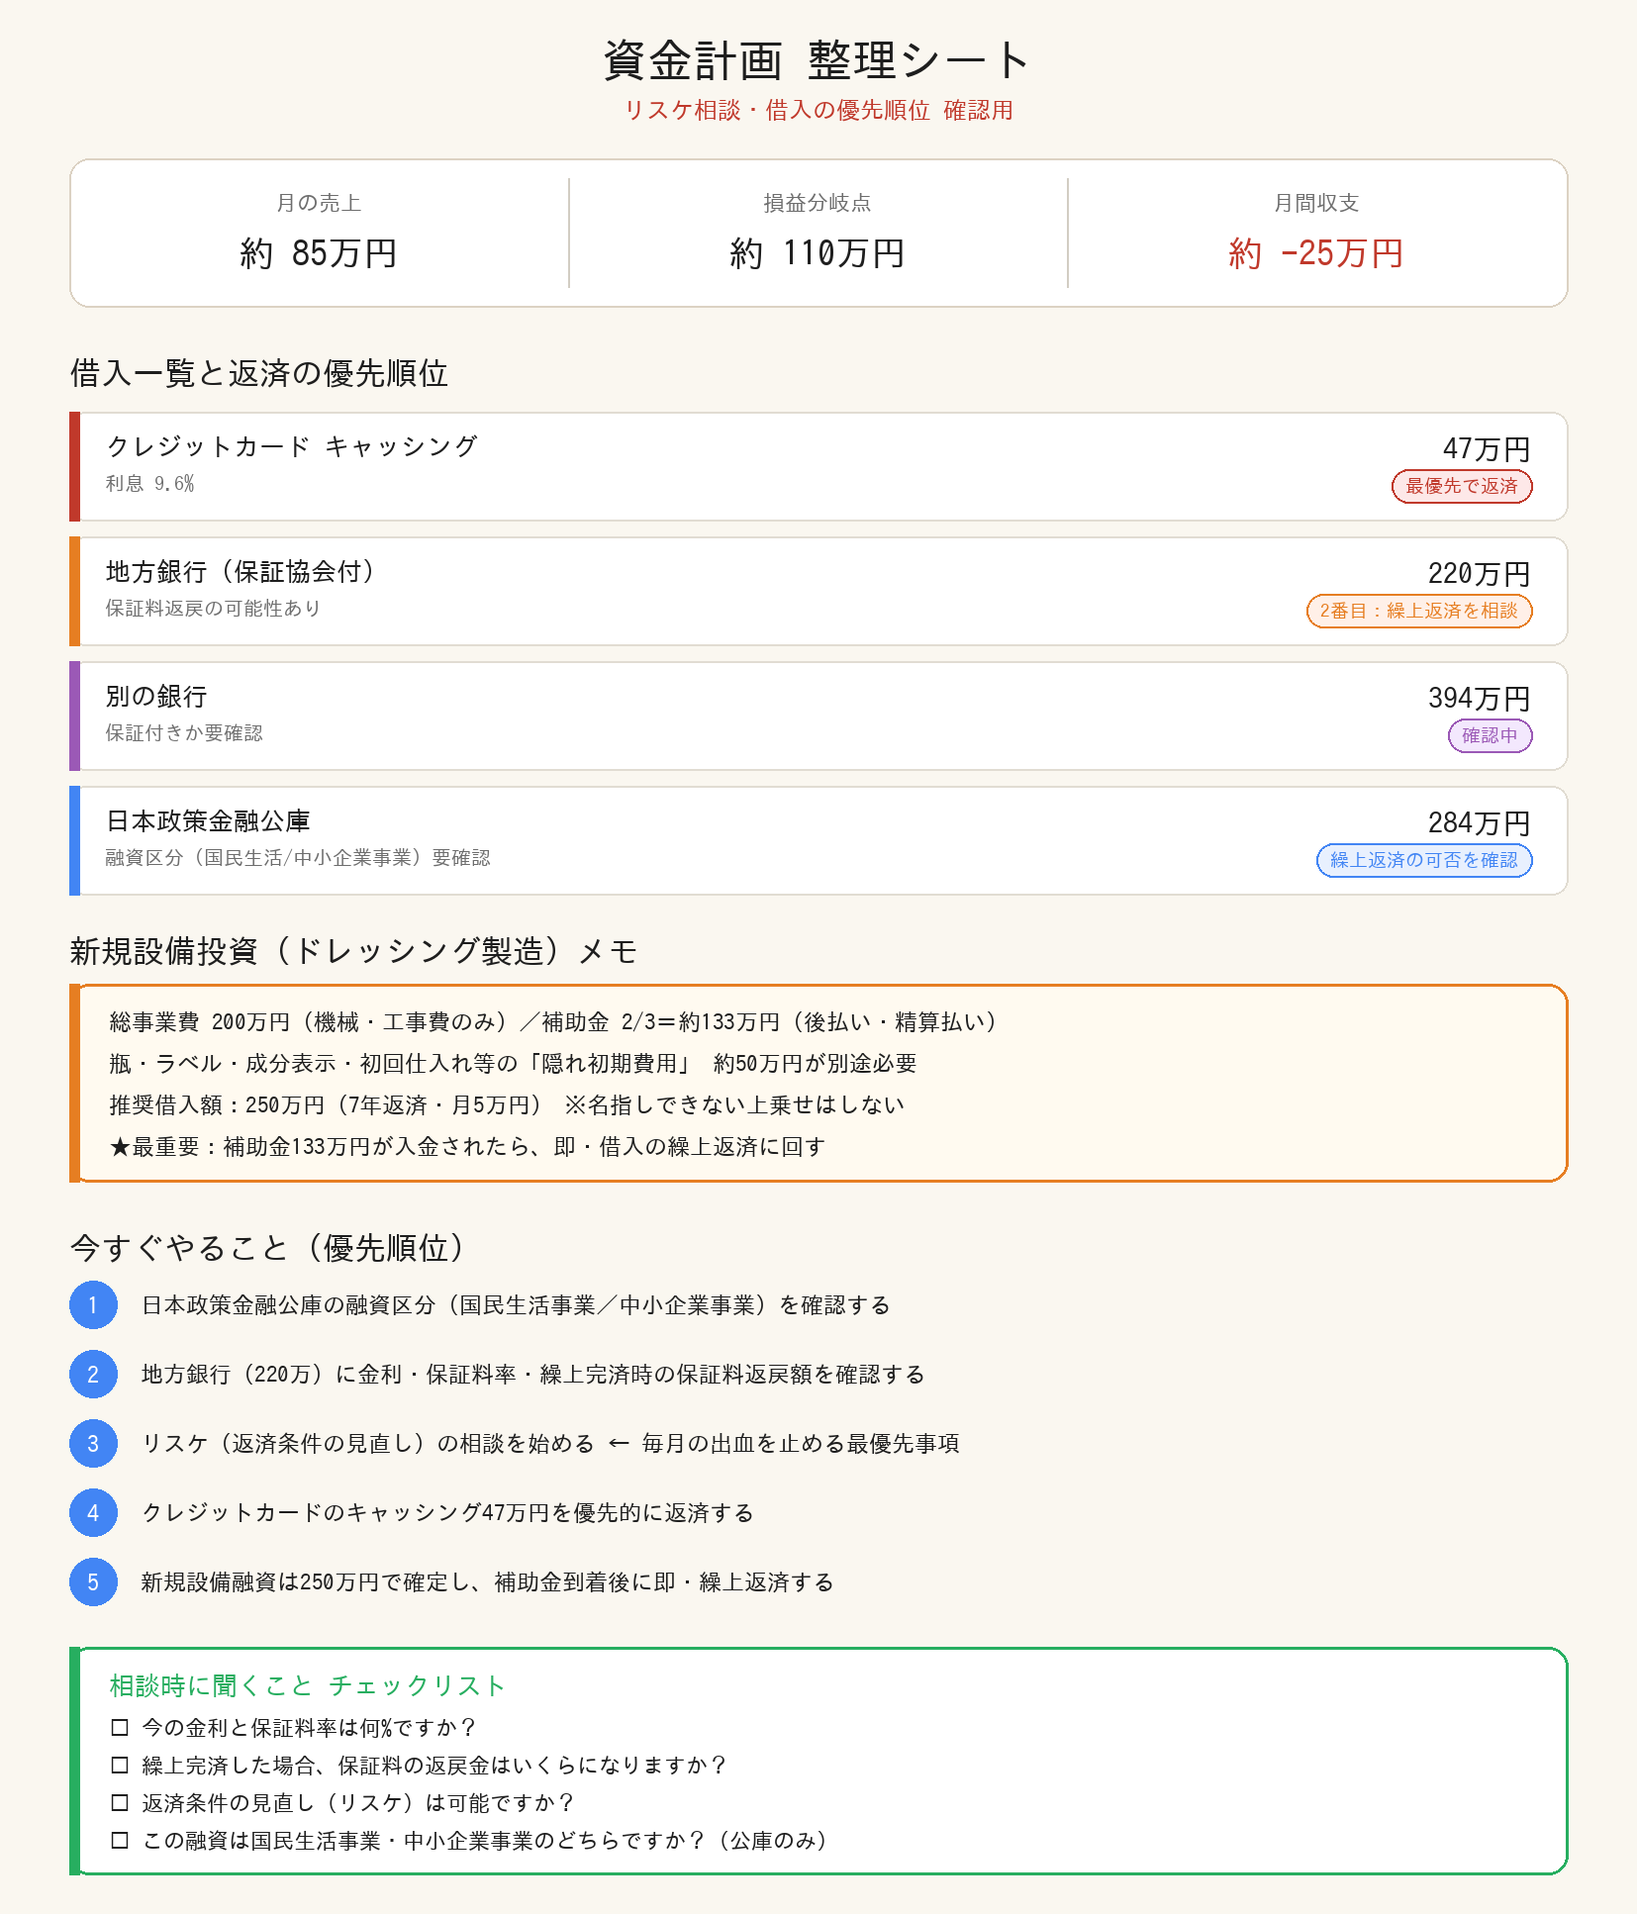
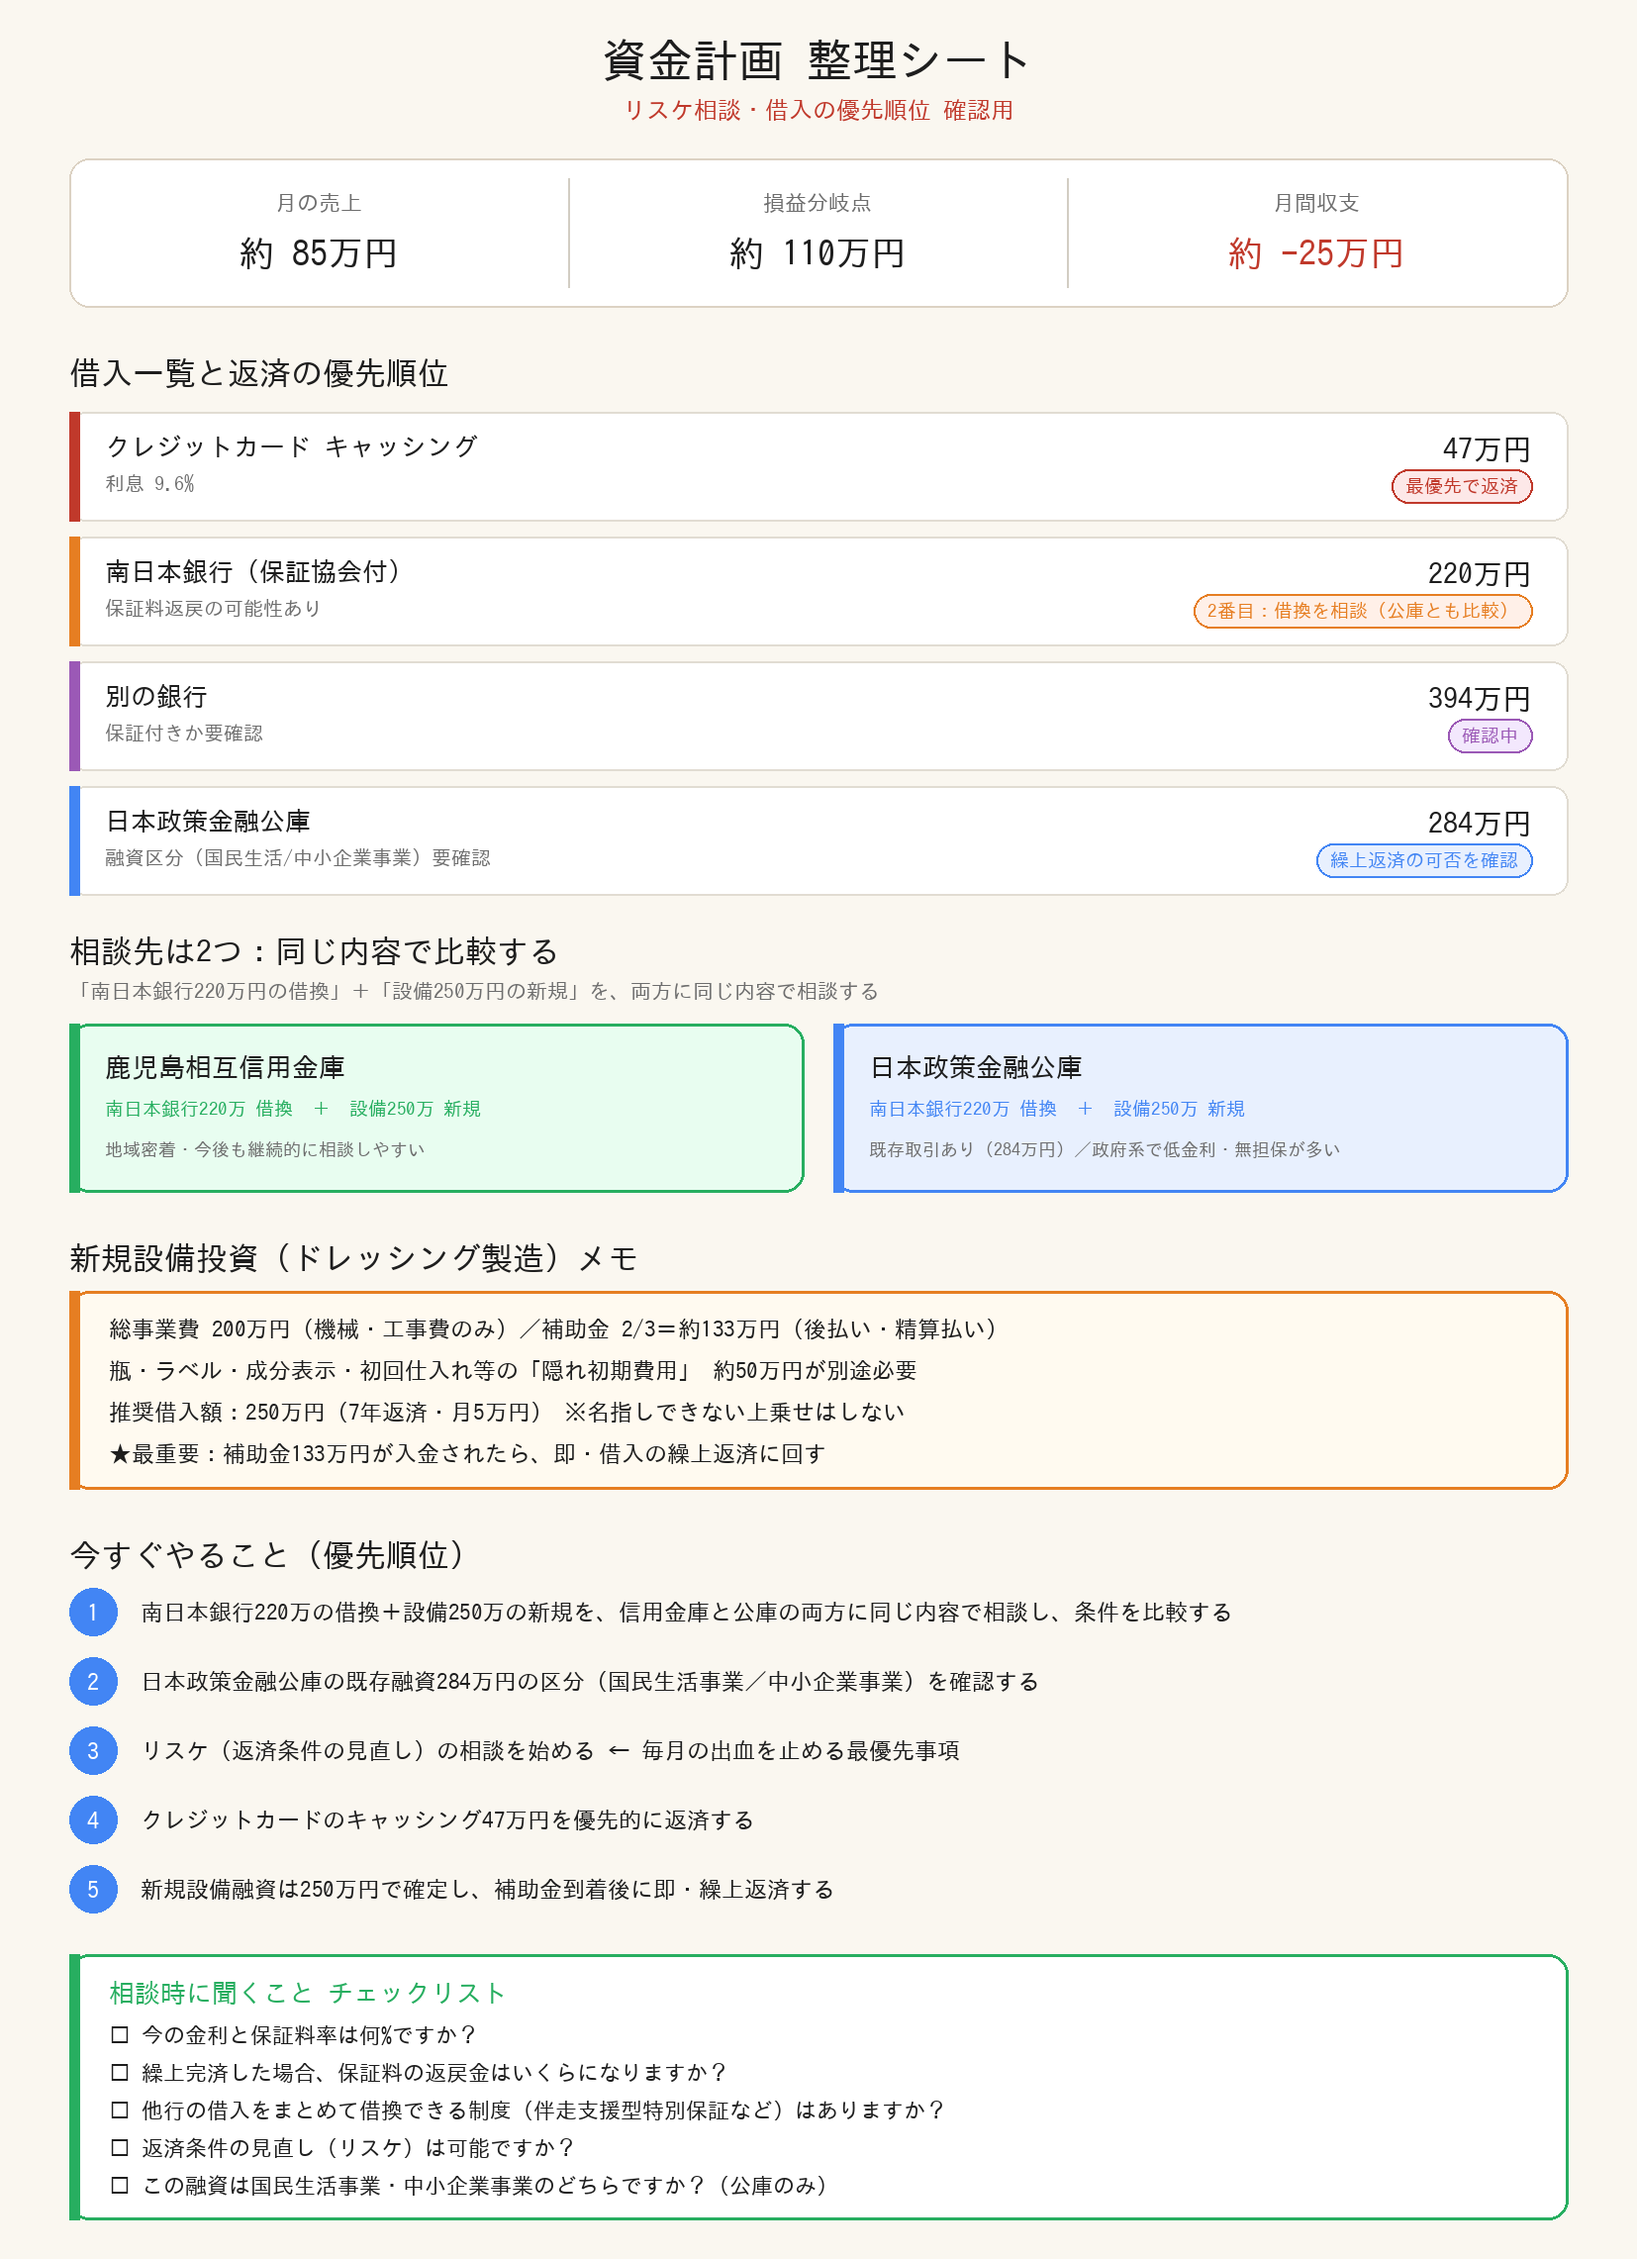
Add dual-consultation comparison to debt priority sheet
Reflects consulting both 鹿児島相互信用金庫 and 日本政策金融公庫 with the
same proposal (南日本銀行220万 borrow-over + 設備250万 new loan) so terms
can be compared, plus a checklist question about combined refinance programs.

Claude-Session: https://claude.ai/code/session_01Qu6Me85X62WDEJzjmW1Hvv

diff --git a/make_debt_priority.py b/make_debt_priority.py
@@ -51,7 +51,7 @@ y += 56
 
 loans = [
     {"name": "クレジットカード キャッシング", "amount": "47万円", "note": "利息 9.6%", "tag": "最優先で返済", "color": (192,57,43), "light": (253,232,232)},
-    {"name": "地方銀行（保証協会付）", "amount": "220万円", "note": "保証料返戻の可能性あり", "tag": "2番目：繰上返済を相談", "color": (230,126,34), "light": (255,240,232)},
+    {"name": "南日本銀行（保証協会付）", "amount": "220万円", "note": "保証料返戻の可能性あり", "tag": "2番目：借換を相談（公庫とも比較）", "color": (230,126,34), "light": (255,240,232)},
     {"name": "別の銀行", "amount": "394万円", "note": "保証付きか要確認", "tag": "確認中", "color": (155,89,182), "light": (243,232,253)},
     {"name": "日本政策金融公庫", "amount": "284万円", "note": "融資区分（国民生活/中小企業事業）要確認", "tag": "繰上返済の可否を確認", "color": (66,133,244), "light": (232,240,254)},
 ]
@@ -70,6 +70,28 @@ for loan in loans:
     y += row_h + 16
 
 y += 24
+
+# ===== 相談先は2つ：同じ内容で比較 =====
+text(PAD, y, "相談先は2つ：同じ内容で比較する", 32, DARK)
+y += 46
+text(PAD, y, "「南日本銀行220万円の借換」＋「設備250万円の新規」を、両方に同じ内容で相談する", 21, GRAY)
+y += 44
+
+box_h = 170
+gap = 30
+box_w = (W - PAD*2 - gap) // 2
+candidates = [
+    {"name": "鹿児島相互信用金庫", "point": "地域密着・今後も継続的に相談しやすい", "color": (39,174,96), "light": (232,253,240)},
+    {"name": "日本政策金融公庫", "point": "既存取引あり（284万円）／政府系で低金利・無担保が多い", "color": (66,133,244), "light": (232,240,254)},
+]
+for i, c in enumerate(candidates):
+    bx = PAD + i*(box_w+gap)
+    rect(bx, y, box_w, box_h, c["light"], radius=20, outline=c["color"], width=3)
+    rect(bx, y, 10, box_h, c["color"], radius=0)
+    text(bx+36, y+30, c["name"], 27, DARK)
+    text(bx+36, y+76, "南日本銀行220万 借換　＋　設備250万 新規", 19, c["color"])
+    text(bx+36, y+118, c["point"], 18, GRAY)
+y += box_h + 50
 
 # ===== 新規設備投資メモ =====
 text(PAD, y, "新規設備投資（ドレッシング製造）メモ", 32, DARK)
@@ -95,8 +117,8 @@ text(PAD, y, "今すぐやること（優先順位）", 32, DARK)
 y += 50
 
 steps = [
-    "日本政策金融公庫の融資区分（国民生活事業／中小企業事業）を確認する",
-    "地方銀行（220万）に金利・保証料率・繰上完済時の保証料返戻額を確認する",
+    "南日本銀行220万の借換＋設備250万の新規を、信用金庫と公庫の両方に同じ内容で相談し、条件を比較する",
+    "日本政策金融公庫の既存融資284万円の区分（国民生活事業／中小企業事業）を確認する",
     "リスケ（返済条件の見直し）の相談を始める ← 毎月の出血を止める最優先事項",
     "クレジットカードのキャッシング47万円を優先的に返済する",
     "新規設備融資は250万円で確定し、補助金到着後に即・繰上返済する",
@@ -113,7 +135,7 @@ for i, s in enumerate(steps):
 y += 20
 
 # ===== 銀行・公庫に聞くことチェックリスト =====
-box_h = 230
+box_h = 268
 rect(PAD, y, W-PAD*2, box_h, WHITE, radius=20, outline=(39,174,96), width=3)
 rect(PAD, y, 10, box_h, (39,174,96), radius=0)
 ix = PAD + 40
@@ -123,6 +145,7 @@ iy += 44
 questions = [
     "□ 今の金利と保証料率は何%ですか？",
     "□ 繰上完済した場合、保証料の返戻金はいくらになりますか？",
+    "□ 他行の借入をまとめて借換できる制度（伴走支援型特別保証など）はありますか？",
     "□ 返済条件の見直し（リスケ）は可能ですか？",
     "□ この融資は国民生活事業・中小企業事業のどちらですか？（公庫のみ）",
 ]
